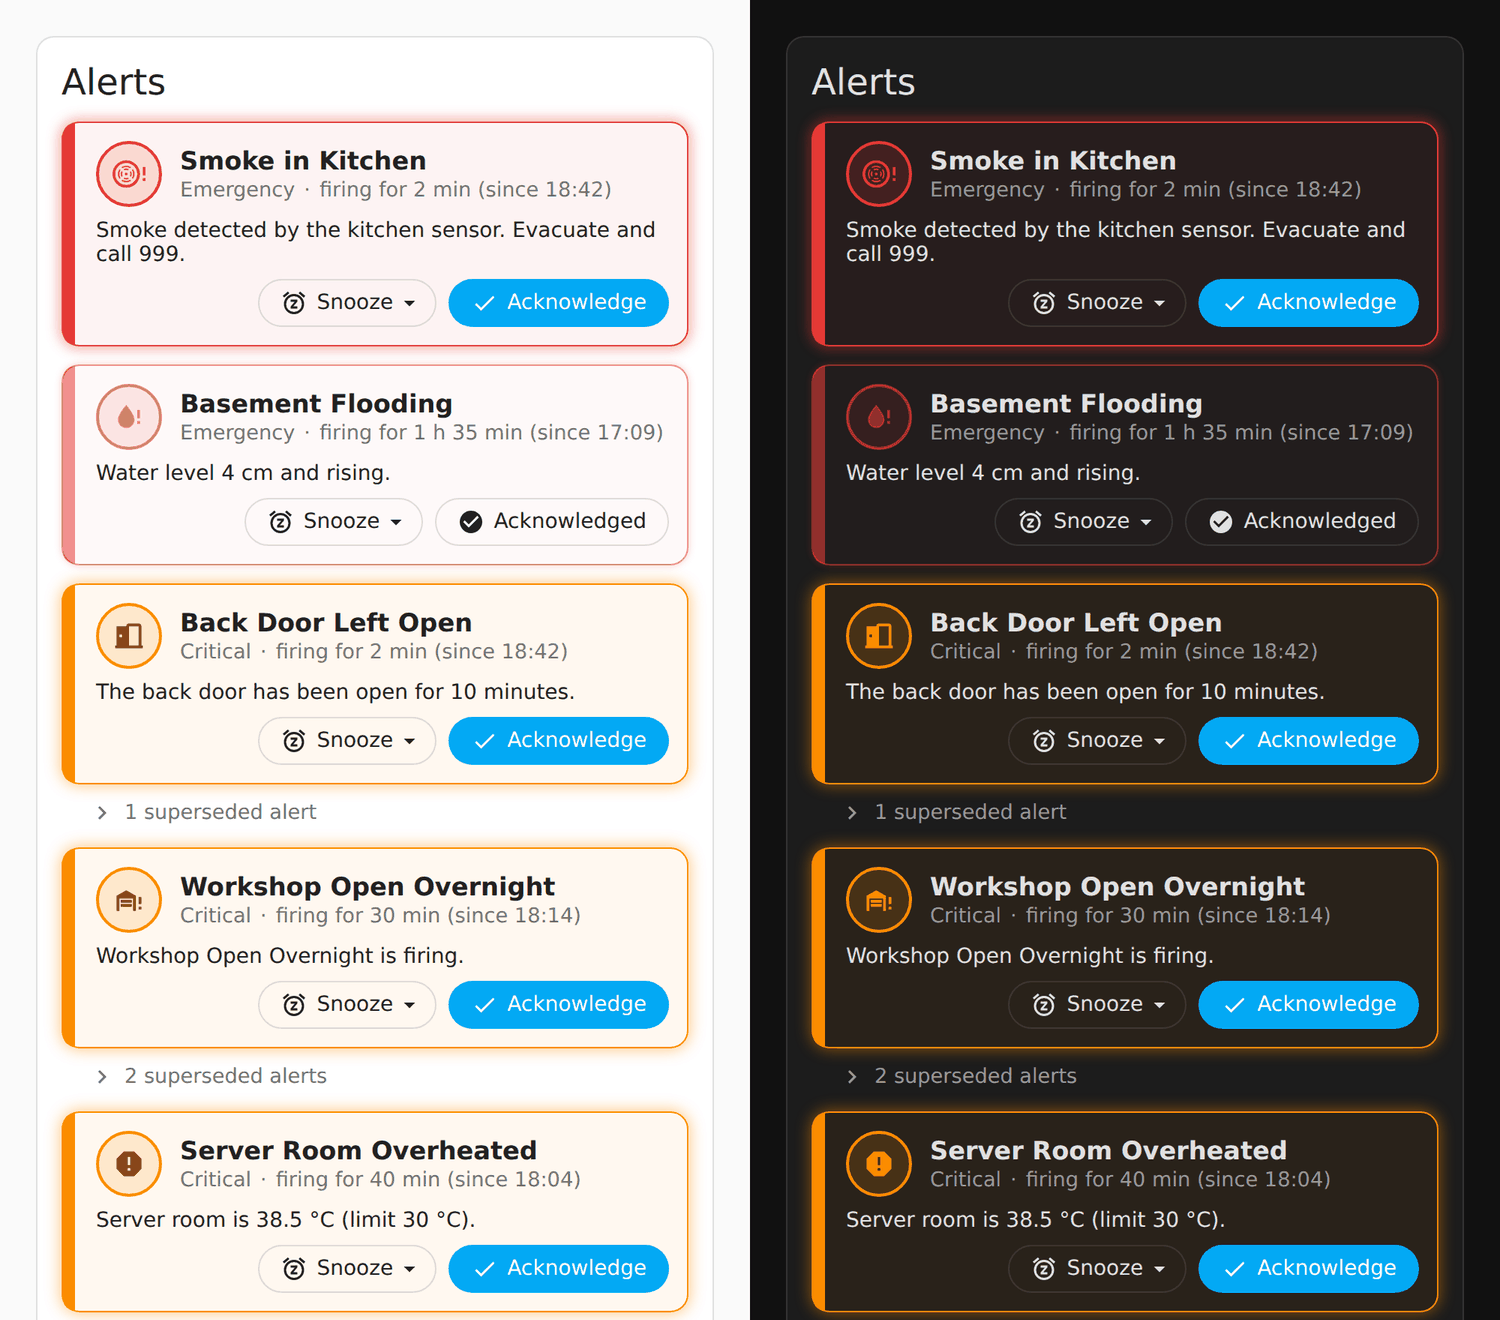
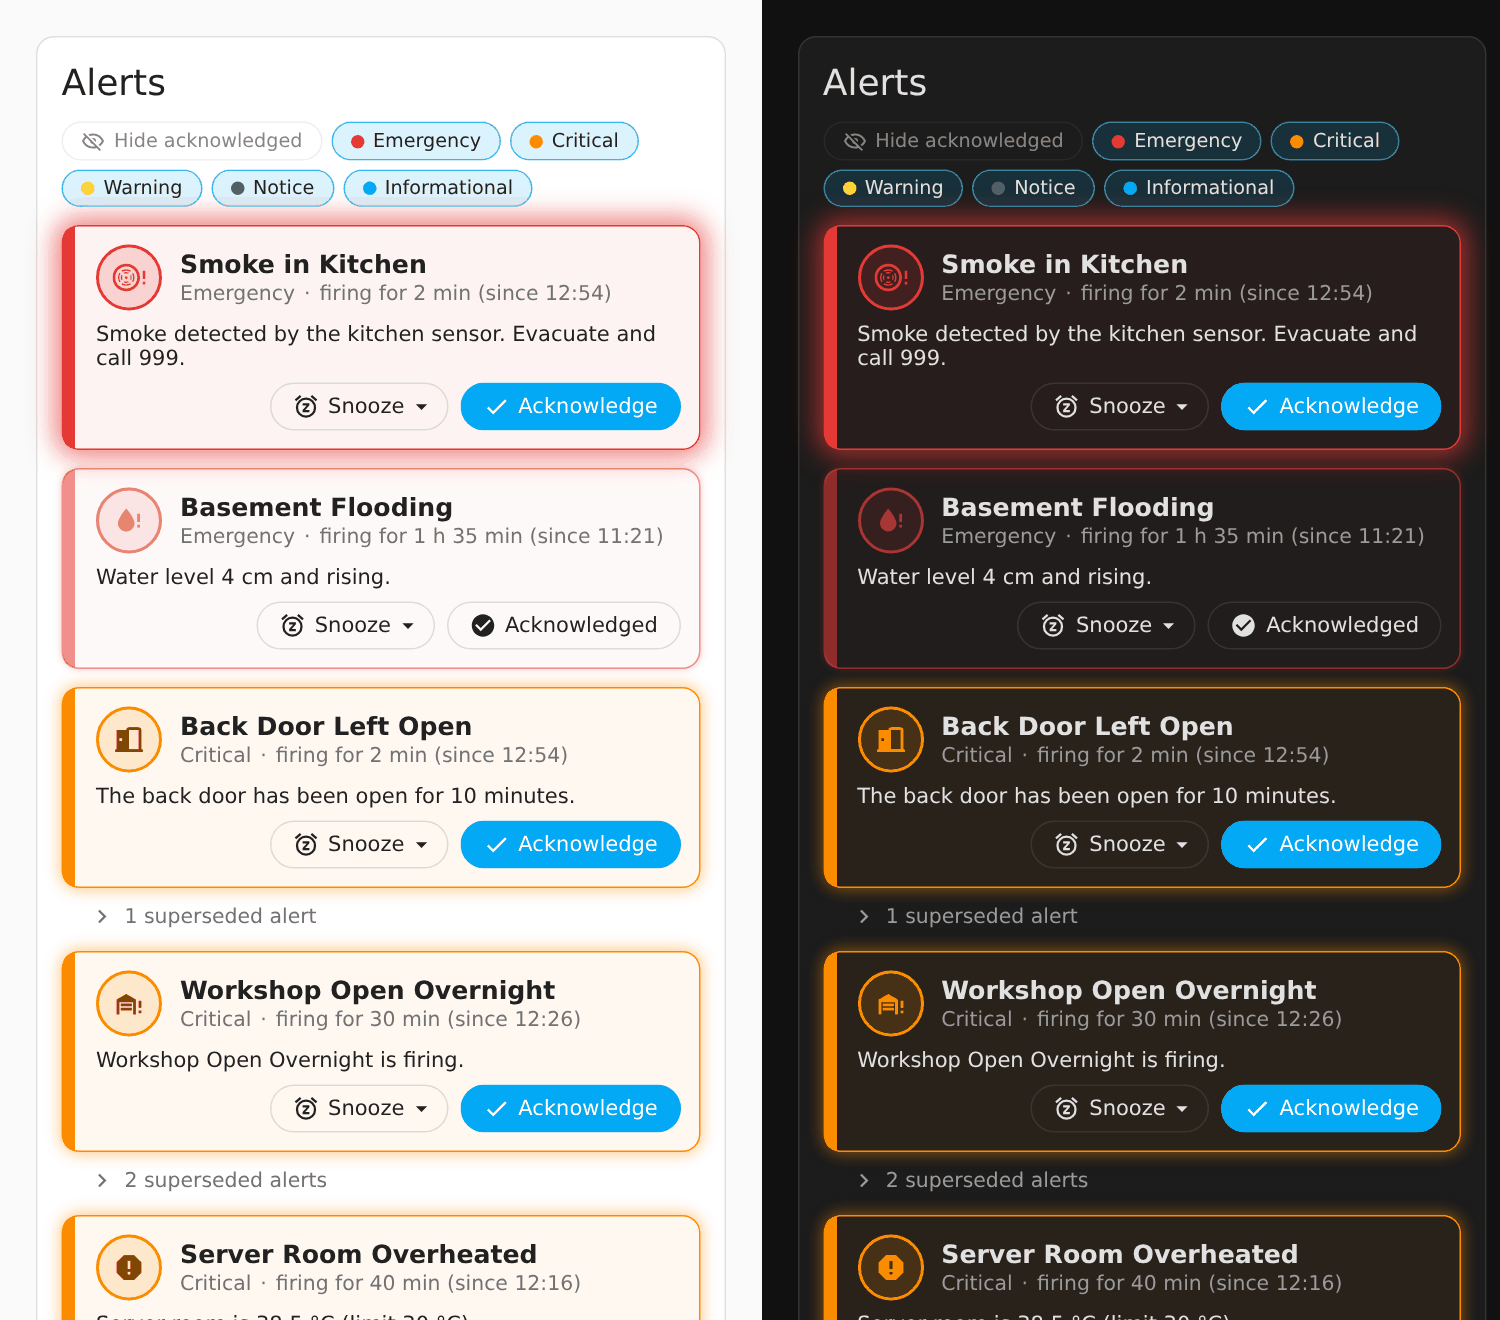
README and screenshots for phase 13's card features, export/import, and placement

diff --git a/README.md b/README.md
@@ -8,7 +8,7 @@ built-in `alert` integration, which is
 > (optionally ending by itself), state, on/off, threshold, template, alert state,
 > trigger, and bus event alerts. The card shows, acknowledges, and snoozes them,
 > they send on, reminder, and done notifications (with throttling, quiet hours,
-> and buttons), the admin card disables and suspends them, alerts can supersede
+> and buttons), the admin card lists, exports, imports, edits, and suspends them, alerts can supersede
 > each other, generators make alerts for every matching entity, summary sensors
 > and the Activity card make them easy to build on, and an agent skill lets AI
 > agents set them up for you. Voice control and more card features arrive in 1.x
@@ -206,6 +206,11 @@ target (each door's *Left Open* over its *Open*), or choose a fixed alert, which
 each of its alerts supersedes. Propagation works as for alerts. The admin card
 marks generated alerts "generated".
 
+A generator's **Area and labels** section gives all its alerts labels, and an area:
+the area of the entity each is about (the default), or a fixed one. Saving the
+generator updates the alerts it has made: the labels it adds or removes and the
+area, but not what you set by hand.
+
 Each generator also has a sensor, `sensor.alert_redux_generator_<name>`: the number
 of alerts it has made, with its `targets`, those `alerts`, and any `problems`.
 `alert_redux.refresh_generator` re-evaluates a generator's targets at once, for
@@ -244,7 +249,10 @@ down ends as soon as it's back.
 | `alert_redux.disable` | Disables an alert until it's enabled. Admin only. |
 | `alert_redux.enable` | Enables a disabled or suspended alert. Admin only. |
 | `alert_redux.suspend` | Disables an alert for a `duration`, or `until` a time (local time if it has no time zone). Admin only. |
+| `alert_redux.press_button` | Runs one of an alert's custom buttons by its `label`, as the card does: only that button's action, as the user who calls it. |
 | `alert_redux.refresh_generator` | Re-evaluates the targets of the generators whose sensors are given as `entity_id`. |
+| `alert_redux.export` | Returns alert and generator definitions as response data (optionally only those of the `entity_id`s given). See [Exporting and importing](#exporting-and-importing). |
+| `alert_redux.import` | Creates or replaces alerts and generators from definitions: `definitions`, `overwrite` (default off), `dry_run` (default off). Admin only. |
 
 An action that doesn't apply to an alert's current state (such as acknowledging an
 idle alert) does nothing.
@@ -257,6 +265,45 @@ data:
   data:
     opened_by: keypad
 ```
+
+### Exporting and importing
+
+There is no YAML configuration, so `alert_redux.export` and `alert_redux.import` are
+how alerts are copied between instances, kept under version control, or created by
+a script. `export` returns the definitions of every alert and generator (or those
+of the `entity_id`s you give; a generated alert gives its generator), and `import`
+takes them back. The admin card has **Export** and **Import** buttons for the same
+(YAML to copy or download; YAML or JSON in).
+
+```yaml
+format: alert_redux
+version: 1
+alerts:
+  - id: 01M3D2A71TKEQW9ECF1G30J4TZ
+    name: Garage Door Left Open
+    kind: state
+    priority: warning
+    entity_id: cover.garage_door
+    target_state: open
+    delay_on: {hours: 0, minutes: 10, seconds: 0}
+    notifier_groups: [Phone]
+generators: []
+```
+
+- A definition is the alert's settings as stored, flattened (no form sections;
+  anything left at its default is left out). Notifier groups, and generators named
+  by other generators, are written by **name**, and turned back into this instance's
+  groups on import; groups themselves aren't exported, so create them first.
+- `id` is kept on import, so importing a file again, here or elsewhere, finds the
+  same alerts. Without one (a file you wrote by hand), a definition matches the
+  existing alert or generator of that name.
+- **Nothing is half-imported.** Every definition is checked first, with the same
+  checks as the forms, and if any is wrong, or would replace an existing alert
+  without `overwrite`, nothing is imported and the error lists every problem.
+  `dry_run` does the checks and says what would happen. A definition identical to
+  the existing one is left as it is, so importing twice does no harm. An existing
+  alert's kind can't be changed by an import.
+- An alert's area and labels live in the entity registry and aren't exported.
 
 ### Events
 
@@ -310,17 +357,24 @@ Alert state is saved as it changes and restored after a restart.
 
 ### Summary sensors
 
-Seven sensors summarise every alert, so glue needs to follow only one entity:
+Eight sensors summarise every alert, so glue needs to follow only one entity:
 
 | Sensor | State |
 |---|---|
 | `sensor.alert_redux_highest_priority` | the highest priority among firing alerts, or `none` |
-| `sensor.alert_redux_highest_unacked_priority` | the same, counting only unacknowledged (`active`) alerts |
+| `sensor.alert_redux_highest_unacked_priority` | the same, counting only unacknowledged (`active`) alerts that aren't superseded |
 | `sensor.alert_redux_firing` | how many alerts are firing (`active` or `ack`) |
-| `sensor.alert_redux_active` | how many are firing and unacknowledged |
+| `sensor.alert_redux_active` | how many are firing and unacknowledged, not counting superseded alerts |
 | `sensor.alert_redux_acknowledged` | how many are acknowledged |
+| `sensor.alert_redux_superseded` | how many firing alerts another firing alert supersedes |
 | `sensor.alert_redux_no_data` | how many are missing data, including firing alerts in their grace period |
 | `sensor.alert_redux_disabled` | how many are disabled or suspended (a diagnostic sensor) |
+
+A superseded alert is hidden on the card and sends no notifications, so it doesn't
+hold up the *unacknowledged* figures: acknowledging the alert you can see quiets a
+signal light. `firing` and `highest_priority` still count it, and
+`sensor.alert_redux_superseded` lists what is left out. (`active` plus
+`acknowledged` can therefore be less than `firing`.)
 
 Each count sensor lists the alerts it counts in its `entity_ids` attribute, and the
 firing and active sensors also count each priority (`emergency: 0`,
@@ -348,6 +402,15 @@ actions:
             {{ {'emergency': 'red', 'critical': 'orange', 'warning': 'yellow',
                 'notice': 'green', 'informational': 'blue'}[trigger.to_state.state] }}
 ```
+
+### Area and labels
+
+An alert's **Area and labels** section sets its area and labels in the entity
+registry, so they can be used by the card's scope and by anything else that picks
+entities by area or label. It is an editor for the registry's values: editing an
+alert shows what the registry has now (changes made on the entity's settings page
+included), and saving writes your choices back, so removing a label there removes
+it. For a new alert, the values are applied once, when it's created.
 
 ### The Alert Redux label
 
@@ -479,6 +542,11 @@ the default from the integration's options (1 hour). It's named so as not to be
 confused with the app's own *Snooze* options, which only snooze the notification on
 the phone; the alert itself isn't snoozed.
 
+The alert's own buttons are on the [card](#lovelace-card) too, defined once. Pressing
+one there runs the same action (as you), through `alert_redux.press_button`; a button
+marked **Only from an unlocked phone** asks you to confirm first. Give each button of
+an alert its own label.
+
 ### When a notifier fails
 
 A notifier that's missing (e.g. its integration hasn't loaded yet) or fails is
@@ -534,9 +602,13 @@ Add it to a dashboard as **Alert Redux** from the card picker, or in YAML:
 type: custom:alert-redux-card
 title: Alerts # optional
 snooze_durations: [15, 30, 60, 120, 240] # optional: the snooze menu, in minutes
+areas: [workshop] # optional: only alerts in these areas (area IDs)
+labels: [network] # optional: only alerts with one of these labels (label IDs)
+hide_acknowledged: false # optional: start with acknowledged alerts hidden
+priorities: [emergency, critical] # optional: start showing only these
 ```
 
-Both options can also be set in the card's visual editor.
+The options can also be set in the card's visual editor.
 
 ![The Alert Redux card with a range of alerts, in the light and dark themes](assets/screenshots/main-card.png)
 
@@ -556,6 +628,18 @@ Alerts that have no data are listed in their own section at the bottom, with the
 inputs they're missing. Disabled alerts aren't shown, only counted ("2 alerts
 disabled"). When nothing is firing, the card says so.
 
+An alert's own **buttons** (see [Buttons](#buttons)) are on its box too, before
+the usual controls; one marked *only from an unlocked phone* asks you to confirm.
+
+**Filters.** `areas` and `labels` set the card's **scope**: it shows only alerts in
+one of those areas and with one of those labels (each, when set), so a room's page
+can show just that room's alerts. Alerts outside the scope are left out of the whole
+card, including the no-data list and the disabled count. Scope applies before
+superseded alerts are folded under their superseders. Under the title, buttons
+**hide acknowledged** alerts or show only some **priorities**, for changing while
+you look at the card (`hide_acknowledged` and `priorities` set where they start);
+the card says how many alerts they hide.
+
 The priority colours can be changed from a theme, with `alert-redux-emergency-color`,
 `alert-redux-critical-color`, `alert-redux-warning-color`, `alert-redux-notice-color`,
 and `alert-redux-informational-color`.
@@ -564,17 +648,35 @@ and `alert-redux-informational-color`.
 
 The admin card lists **every** alert, grouped by priority, with its kind and state
 (and when it started firing, when a snooze or suspension ends, which alert is
-superseding it, and so on). Admins
-get buttons to disable or enable each alert, and to suspend it for 1 hour to a week
-or until a date and time; everyone else sees the list without them. It comes in the
-same install as the main card: add **Alert Redux admin** from the card picker, or
+superseding it, and so on). It comes in the same install as the main card: add
+**Alert Redux admin** from the card picker, or
 
 ```yaml
 type: custom:alert-redux-admin-card
 title: All alerts # optional
+page_size: 20 # optional: alerts per page; unset shows them all
 ```
 
+With `page_size`, the list is paged (still by priority, with each heading counting
+the whole priority), and the card keeps its height on a short last page so the
+dashboard doesn't rearrange itself.
+
+Everyone gets, on each row, a **Summary** button: a text summary of the alert's
+settings to copy (handy when setting up a matching alert), or its definition as
+YAML. Everyone also gets **Export** (all definitions as YAML, to copy or download).
+Admins also get, on each row, buttons to **edit**, **delete**, **disable** or
+**enable**, and **suspend** it for 1 hour to a week or until a date and time, and
+**Import**, **Add alert**, and **Add generator** above the list.
+
 ![The Alert Redux admin card, in the light and dark themes](assets/screenshots/admin-card.png)
+
+Adding and editing use the same forms as **Settings → Devices & Services → Alert
+Redux**, shown in a dialog on the card (a generated alert edits and deletes its
+generator). **Import** takes pasted YAML (or JSON) or a file; **Check** says what
+would happen without changing anything. Notifier groups are still edited in Home
+Assistant's own pages.
+
+![The settings summary dialog](assets/screenshots/admin-summary.png)
 
 ### After installing or upgrading
 
